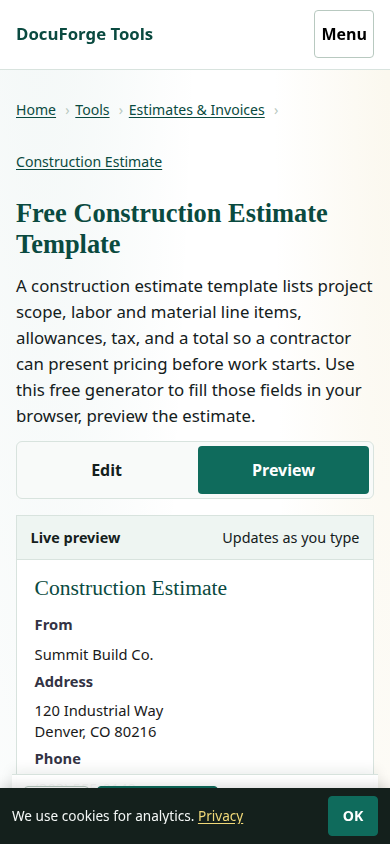
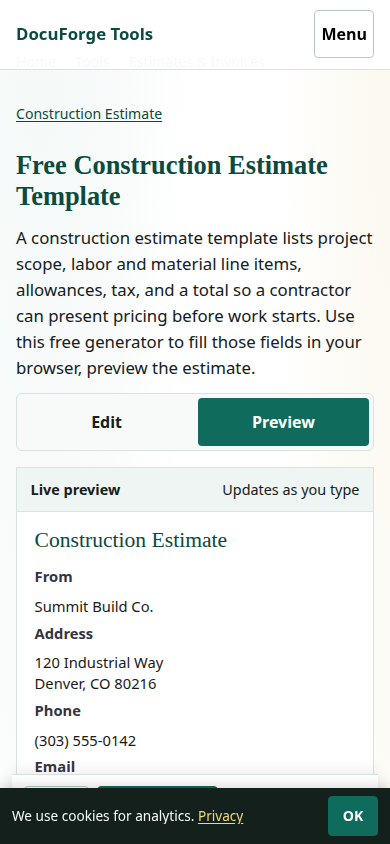
Defer React editor until interaction to fix CLS and JS budgets
Keep the answer-first static form shell above the fold, but load the
heavy generator only on first edit or explicit "Load full editor".
Fixes proof Lighthouse CLS (>0.05) and ~77KB script transfer from
eager auto-mount. Also resolve lighthouserc.cjs merge conflict markers.

diff --git a/AGENTS.md b/AGENTS.md
@@ -31,7 +31,7 @@ Static Astro + TypeScript site with React islands for in-browser document genera
 - Custom domain cutover (do not change domain until ready): `docs/CUSTOM-DOMAIN.md`
 - Site origin: **only** `PUBLIC_SITE_URL` / `src/config/siteDefaults.mjs` — canonicals, sitemap, robots, llms, JSON-LD, OG, IndexNow
 - One primary keyword per URL; answer-first intro; 600+ words on tool pages; guides ≥800 (target ~1000+)
-- **Answer-first tools:** H1 → short lead → editor open by default (no “Open editor” gate) → byline under tool; ≤60 words before first input; cookie bar ≤56px
+- **Answer-first tools:** H1 → short lead → static form shell with real inputs (no click-only “Open editor” gate) → byline under tool; ≤60 words before first input; full React editor on first edit; cookie bar ≤56px; keep proof Lighthouse CLS ≤0.05
 - Never render Ahrefs/KD notes or internal keyword scores on public pages
 - Tool pages must link topical guides (`src/data/toolGuideMap.ts` + Learn more block)
 - FAQ on page + FAQPage JSON-LD; hubs/`/tools/`/`/guides/` need BreadcrumbList + CollectionPage
